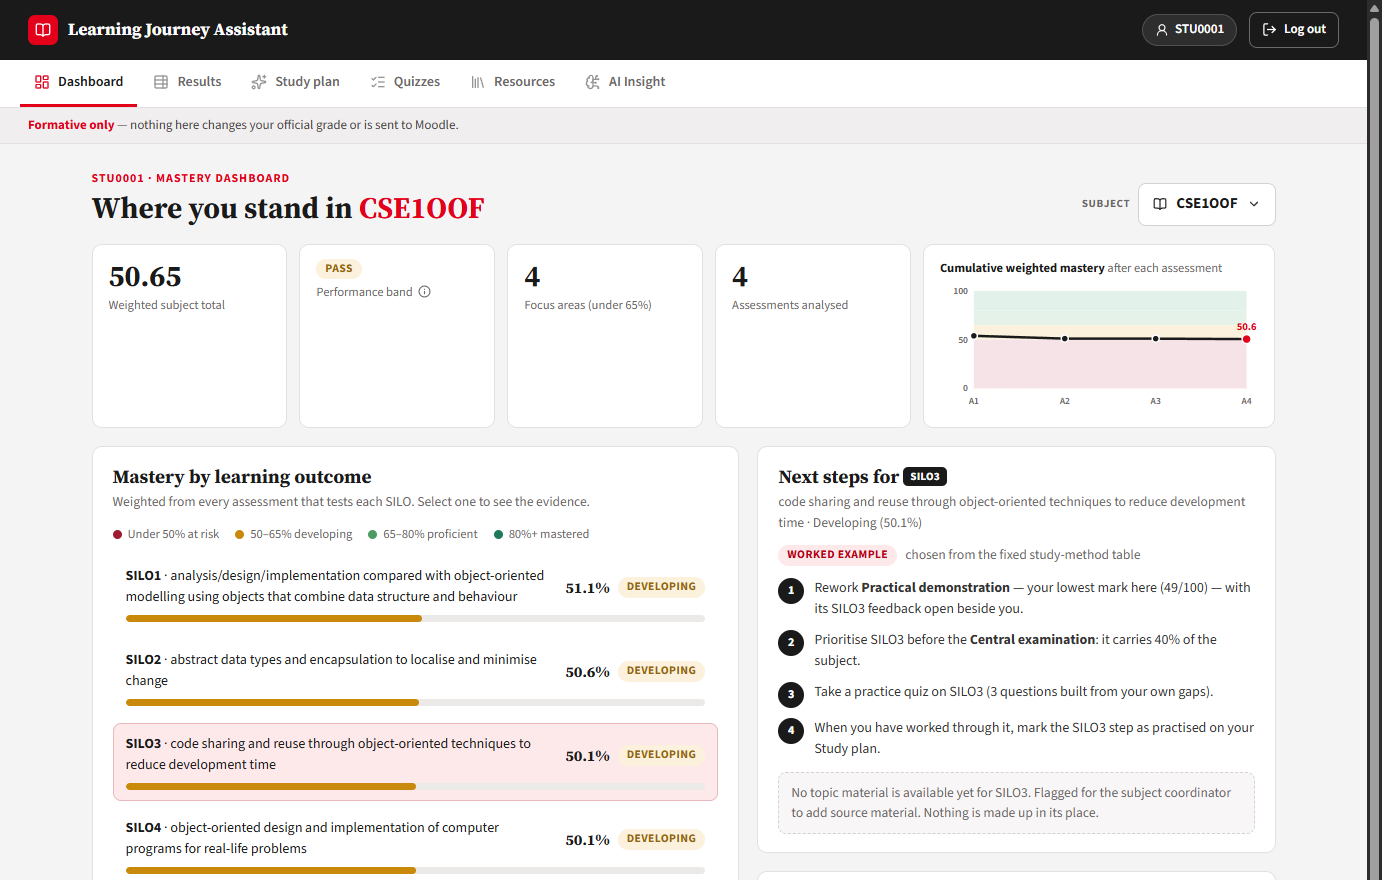
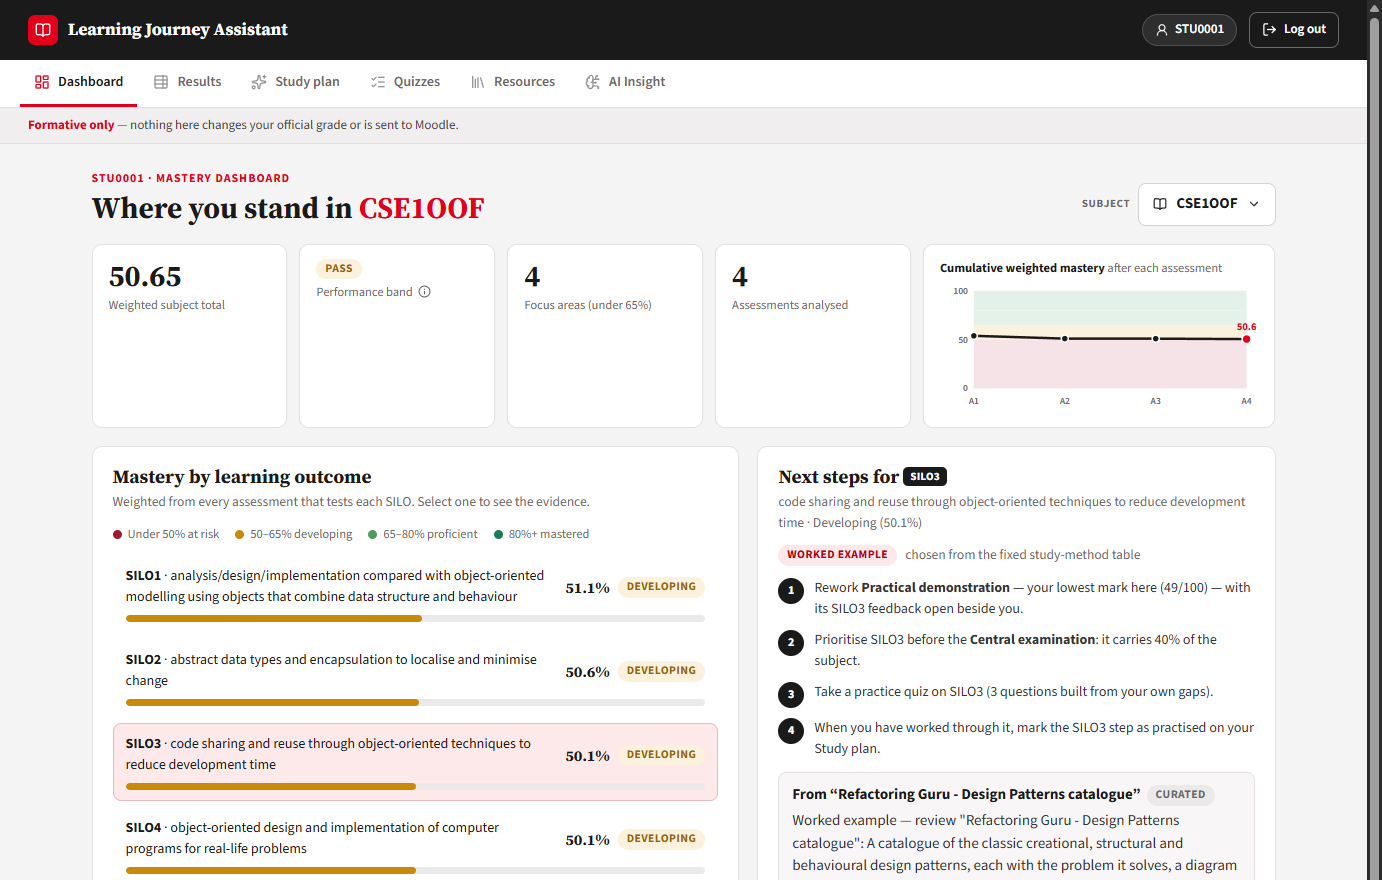
docs: refreshed screenshots showing curated resources
Study plan, Resources, Quizzes and Dashboard images retaken on the
150-student data now that every outcome has a resource; User Guide
Resources section gets its screenshot.

Changed region(s): [[0.5601, 0.8898, 0.9023, 1.0]]

diff --git a/docs/USER_GUIDE.md b/docs/USER_GUIDE.md
@@ -138,6 +138,8 @@ be straightforward rather than creative.
 
 ### 3.5 Resources
 
+![Resources](images/app-resources.png)
+
 Reading for each learning outcome, grouped by subject and **ordered by
 where you need it most**: resources for your weakest outcomes come first,
 each showing your current mastery band, and outcomes under 65% are marked
